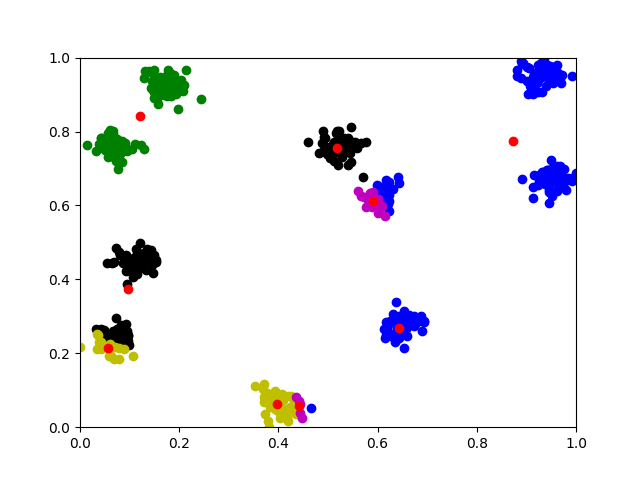
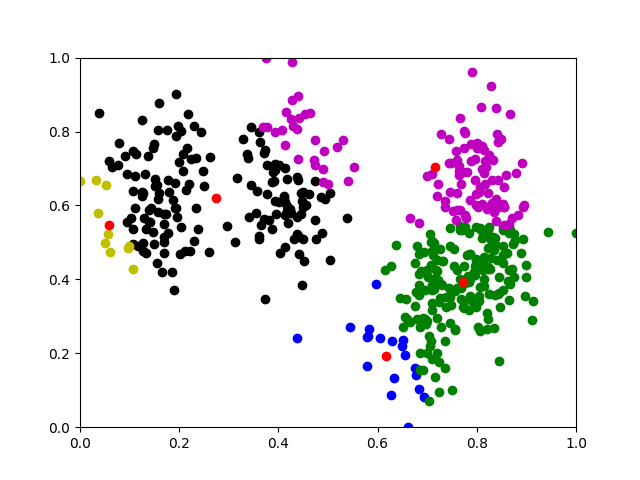
Small adjustments to parametrs

diff --git a/002 - hierarchical clustering algorithm/example.py b/002 - hierarchical clustering algorithm/example.py
@@ -6,9 +6,9 @@ from sklearn.datasets import make_blobs
 
 # Blob parameters
 NUMBER_OF_SAMPLES = 500
-NUMBER_OF_CLUSTERS = 10
+NUMBER_OF_CLUSTERS = 5
 CLUSTER_CENTERS = [(random.random(), random.random()) for _ in range(NUMBER_OF_CLUSTERS)]
-CLUSTER_STD = 0.025
+CLUSTER_STD = 0.05
 
 # Generate data
 data_points, labels_data_points = make_blobs(   n_samples=NUMBER_OF_SAMPLES, 
